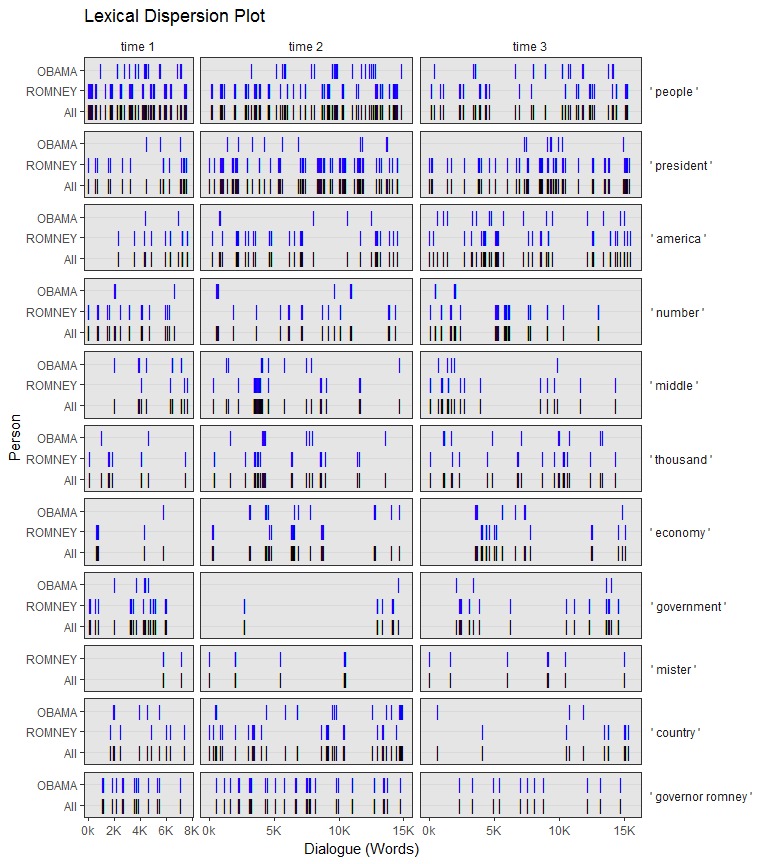
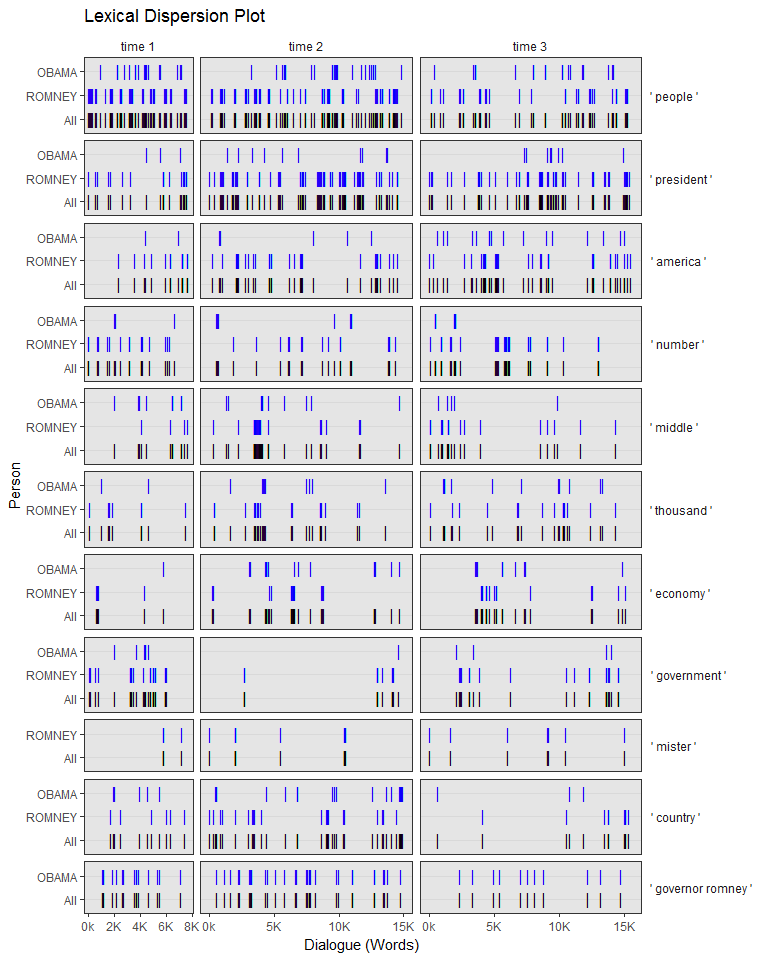
added new showing differet config

diff --git a/README.md b/README.md
@@ -76,6 +76,17 @@ Lexical Dispersion
 
 ![](tools/figure/unnamed-chunk-5-1.png)
 
+    pres_debates2012 %>%
+        dplyr::filter(person %in% c('ROMNEY', 'OBAMA')) %$%
+        lexical_dispersion(text.var = dialogue, term.list = wrds, 
+            grouping.var = person, rm.var = time
+        ) %>%
+        plot(, bg.color = "black", color = "red", 
+            total.color = "white", horiz.color="grey20"
+        )
+
+![](tools/figure/unnamed-chunk-6-1.png)
+
 Word Trees
 ----------
 
@@ -115,7 +126,7 @@ Text Hilighting
     hilighter_cols %>%
         view_cols()
 
-![](tools/figure/unnamed-chunk-9-1.png)
+![](tools/figure/unnamed-chunk-10-1.png)
 
 ### Regular Expresion Terms
 
